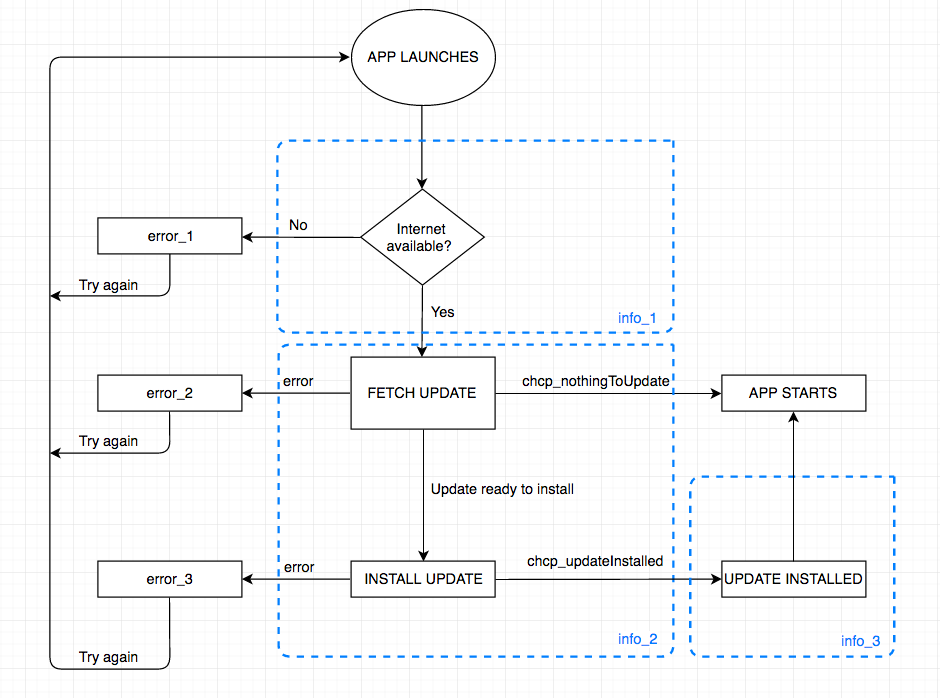
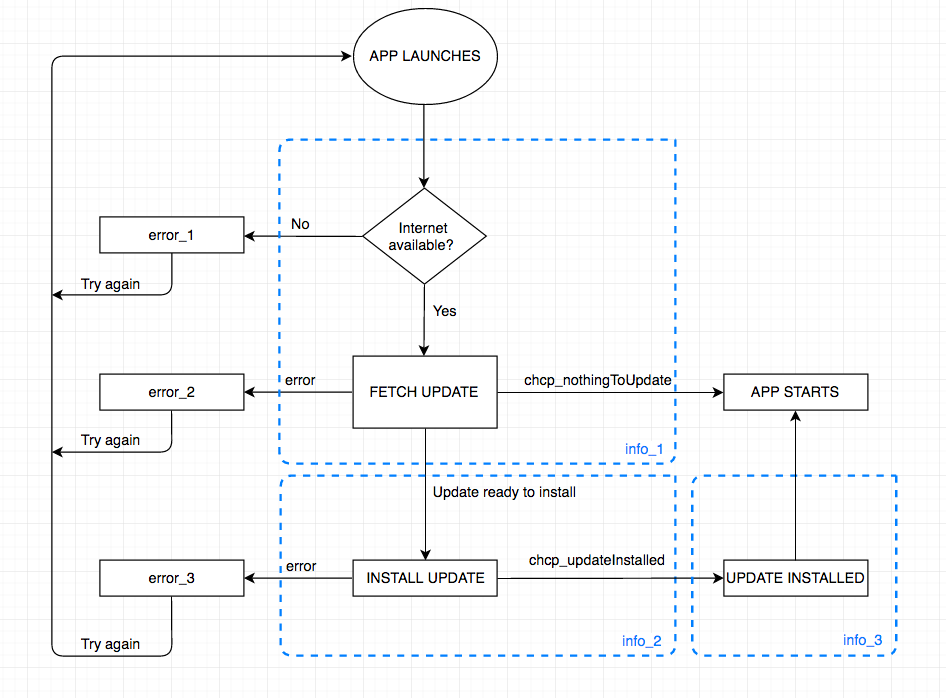
Adding "info_X" screens

diff --git a/README.md b/README.md
@@ -3,3 +3,17 @@ Layout to display the different states during hot-code-push.
 
 ### Flow Diagram
 ![flow-diagram](flow diagram.png "Flow diagram")
+
+### Screens
+
+- **info_1** Checking for updates
+
+- **info_2** Installing update
+
+- **info_3** Update installed
+
+- **error_1** No internet connexion
+
+- **error_2** Error downloading update
+
+- **error_3** Error installing update
